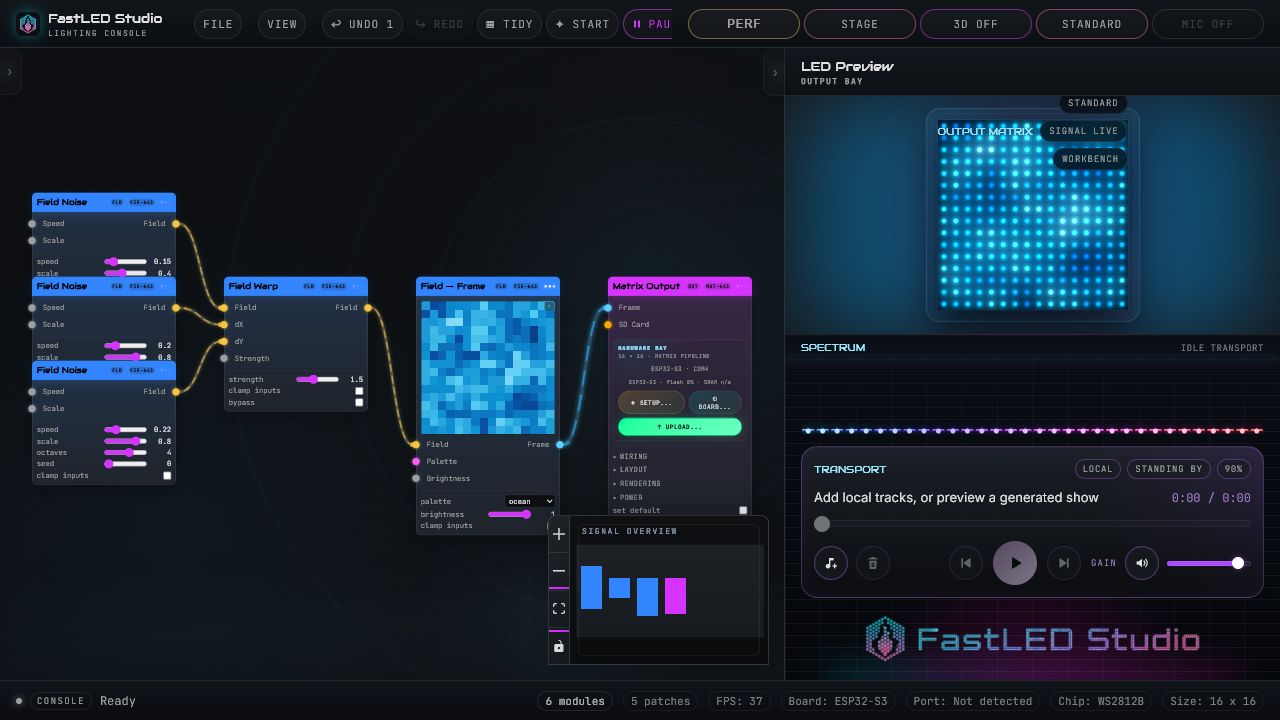
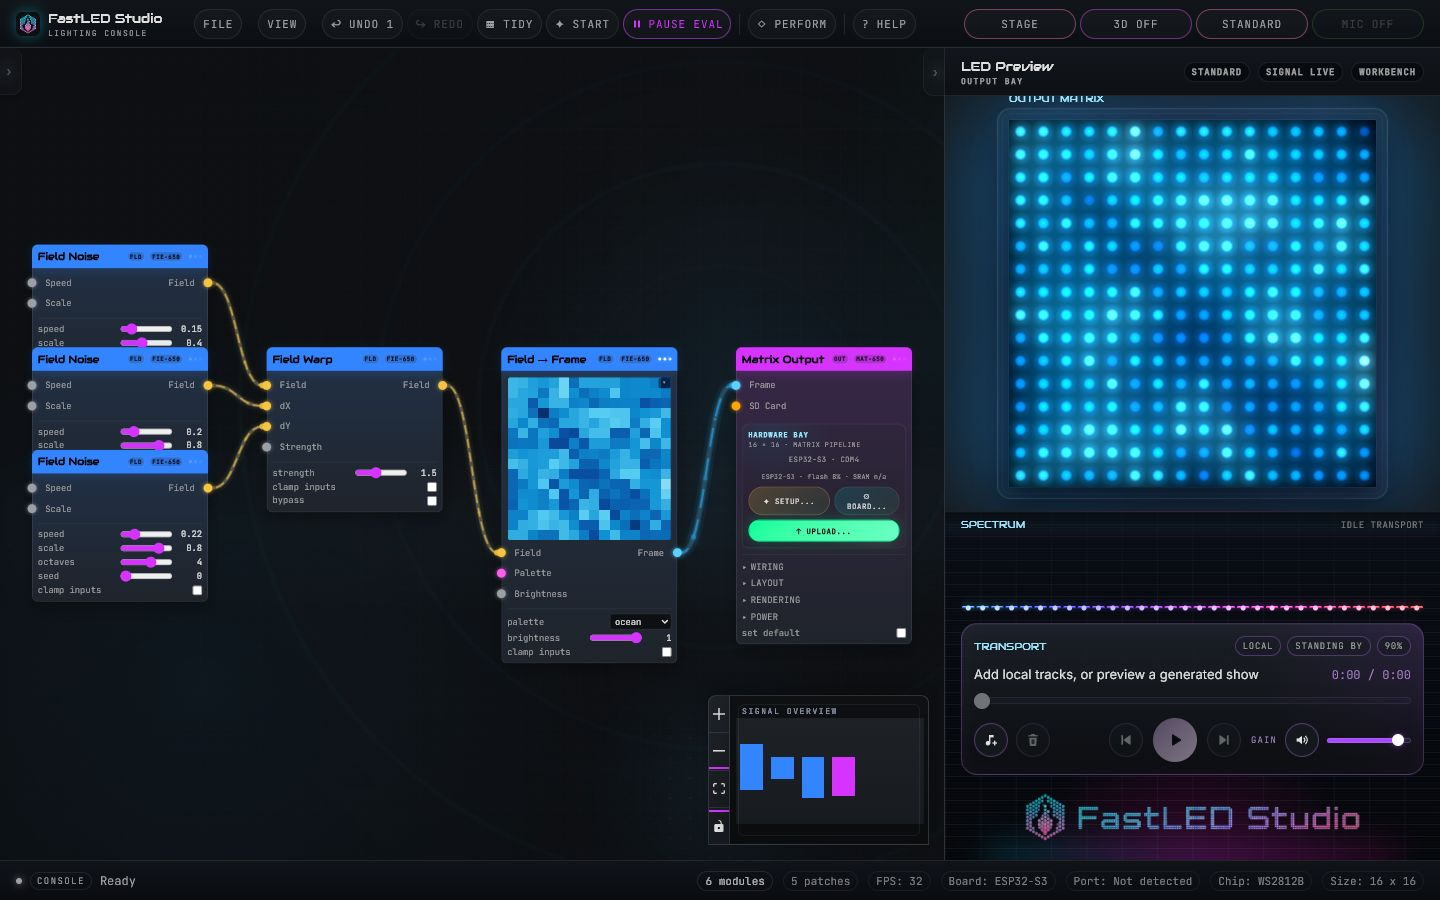
Add Stage Mode telemetry and README docs

diff --git a/src/components/Preview/LEDPreview.tsx b/src/components/Preview/LEDPreview.tsx
@@ -617,12 +617,17 @@ export default function LEDPreview() {
   const playbackShow = useShowPlayback((s) => s.show)
   const playbackPosMs = useShowPlayback((s) => s.posMs)
 
-  const hasFrameSignal = useGraphStore((s) => {
+  const graphHasFrameSignal = useGraphStore((s) => {
     const terminalIds = new Set(s.nodes
       .filter((node) => ['MatrixOutput', 'GroupOutput'].includes(String(node.data.nodeType)))
       .map((node) => node.id))
     return s.edges.some((edge) => terminalIds.has(edge.target) && edge.targetHandle === 'frame')
   })
+  // A Performance Generator preview reaches the output bay through the show
+  // playback bus rather than a Matrix Output frame cable. Treat that live show
+  // as a real frame signal so Stage does not contradict its lit matrix with a
+  // "Signal idle" / standby overlay.
+  const hasFrameSignal = graphHasFrameSignal || playbackShow !== null
   const graphAudioVisualizerLive = useGraphStore((s) => graphConsumesAudio(s.nodes, s.edges))
   const playbackSpectrum = playbackShow ? showAudioSpectrum(playbackShow.audio, playbackPosMs) : null
   const audioVisualizerLive = graphAudioVisualizerLive || !!playbackSpectrum
@@ -1222,6 +1227,14 @@ export default function LEDPreview() {
             <span className={styles.previewMeta}>Output bay</span>
           </div>
         )}
+        <div className={styles.headerRight} aria-label="Preview telemetry">
+          <span className={styles.canvasHudChip}>{previewStyleLabel(effectivePreviewStyle)}</span>
+          <span className={styles.canvasHudChip}>{hasFrameSignal ? 'Signal live' : 'Signal idle'}</span>
+          <span className={styles.canvasHudChip}>
+            {showMode ? 'Show sync' : audioVisualizerLive ? 'Audio reactive' : 'Workbench'}
+          </span>
+          {performanceMode && <span className={styles.canvasHudChip}>Performance</span>}
+        </div>
       </div>
       <div
         ref={canvasWrapRef}
@@ -1231,16 +1244,8 @@ export default function LEDPreview() {
         {uiEffectsEnabled && <div className={styles.ambilight} aria-hidden="true" />}
         <div className={styles.canvasBay}>
           <div className={styles.canvasFrame}>
-            <div className={styles.canvasFrameHeader} aria-label="Preview telemetry">
+            <div className={styles.canvasFrameHeader}>
               <span className={`${styles.visualizerKicker} ${styles.canvasFrameTag}`}>Output matrix</span>
-              <div className={styles.canvasHud}>
-                <span className={styles.canvasHudChip}>{previewStyleLabel(effectivePreviewStyle)}</span>
-                <span className={styles.canvasHudChip}>{hasFrameSignal ? 'Signal live' : 'Signal idle'}</span>
-                <span className={styles.canvasHudChip}>
-                  {showMode ? 'Show sync' : audioVisualizerLive ? 'Audio reactive' : 'Workbench'}
-                </span>
-                {performanceMode && <span className={styles.canvasHudChip}>Performance</span>}
-              </div>
             </div>
             <div
               className={styles.canvasStack}

diff --git a/src/components/Preview/LEDPreview.module.css b/src/components/Preview/LEDPreview.module.css
@@ -90,7 +90,10 @@
 .headerRight {
   display: flex;
   align-items: center;
+  justify-content: flex-end;
+  flex-wrap: wrap;
   gap: 8px;
+  min-width: 0;
 }
 
 .headerStage {
@@ -246,20 +249,11 @@
   top: -28px;
   display: flex;
   align-items: center;
-  gap: 6px;
   pointer-events: none;
 }
 
-.canvasHud {
-  margin-left: auto;
-  display: flex;
-  flex-wrap: wrap;
-  justify-content: flex-end;
-  gap: 6px;
-}
-
 .canvasHudChip {
-  padding: 4px 8px;
+  padding: 3px 7px;
   border: 1px solid rgba(255, 255, 255, 0.08);
   border-radius: 999px;
   background: rgba(4, 8, 14, 0.72);
@@ -1236,7 +1230,6 @@
     gap: 6px;
   }
 
-  .canvasHud,
   .transportChips {
     gap: 4px;
   }

diff --git a/README.md b/README.md
@@ -16,6 +16,14 @@ FastLED Studio is a visual authoring environment for LED strips, matrices, and t
 |---|---|
 | ![A patch driving the live LED preview](docs/images/readme/fastled-studio-patch.png) | ![Pattern Library with included audio-reactive patterns](docs/images/readme/fastled-studio-pattern-library.png) |
 
+### Perform in Stage Mode
+
+Press **Stage** or **F10** to turn the workspace into a focused performance view. The live matrix fills most of the screen while the spectrum analyzer, show transport, pattern status, frame rate, and memory telemetry stay visible. Select the spectrum name to cycle through the available visualizers; press **Esc** or **F10** to return to the editor.
+
+The shot below is a generated show playing a lava-coloured pattern while its analyzed audio track drives the spectrum display.
+
+![Stage Mode playing a generated show with the live spectrum analyzer](docs/images/readme/fastled-studio-stage.png)
+
 ## Your first five minutes
 
 1. **Start with something alive.** On the empty canvas choose **Start with Rainbow**, **Audio-reactive demo**, or **Browse starter patches**. The **✦ Start** button reopens the gallery at any time.